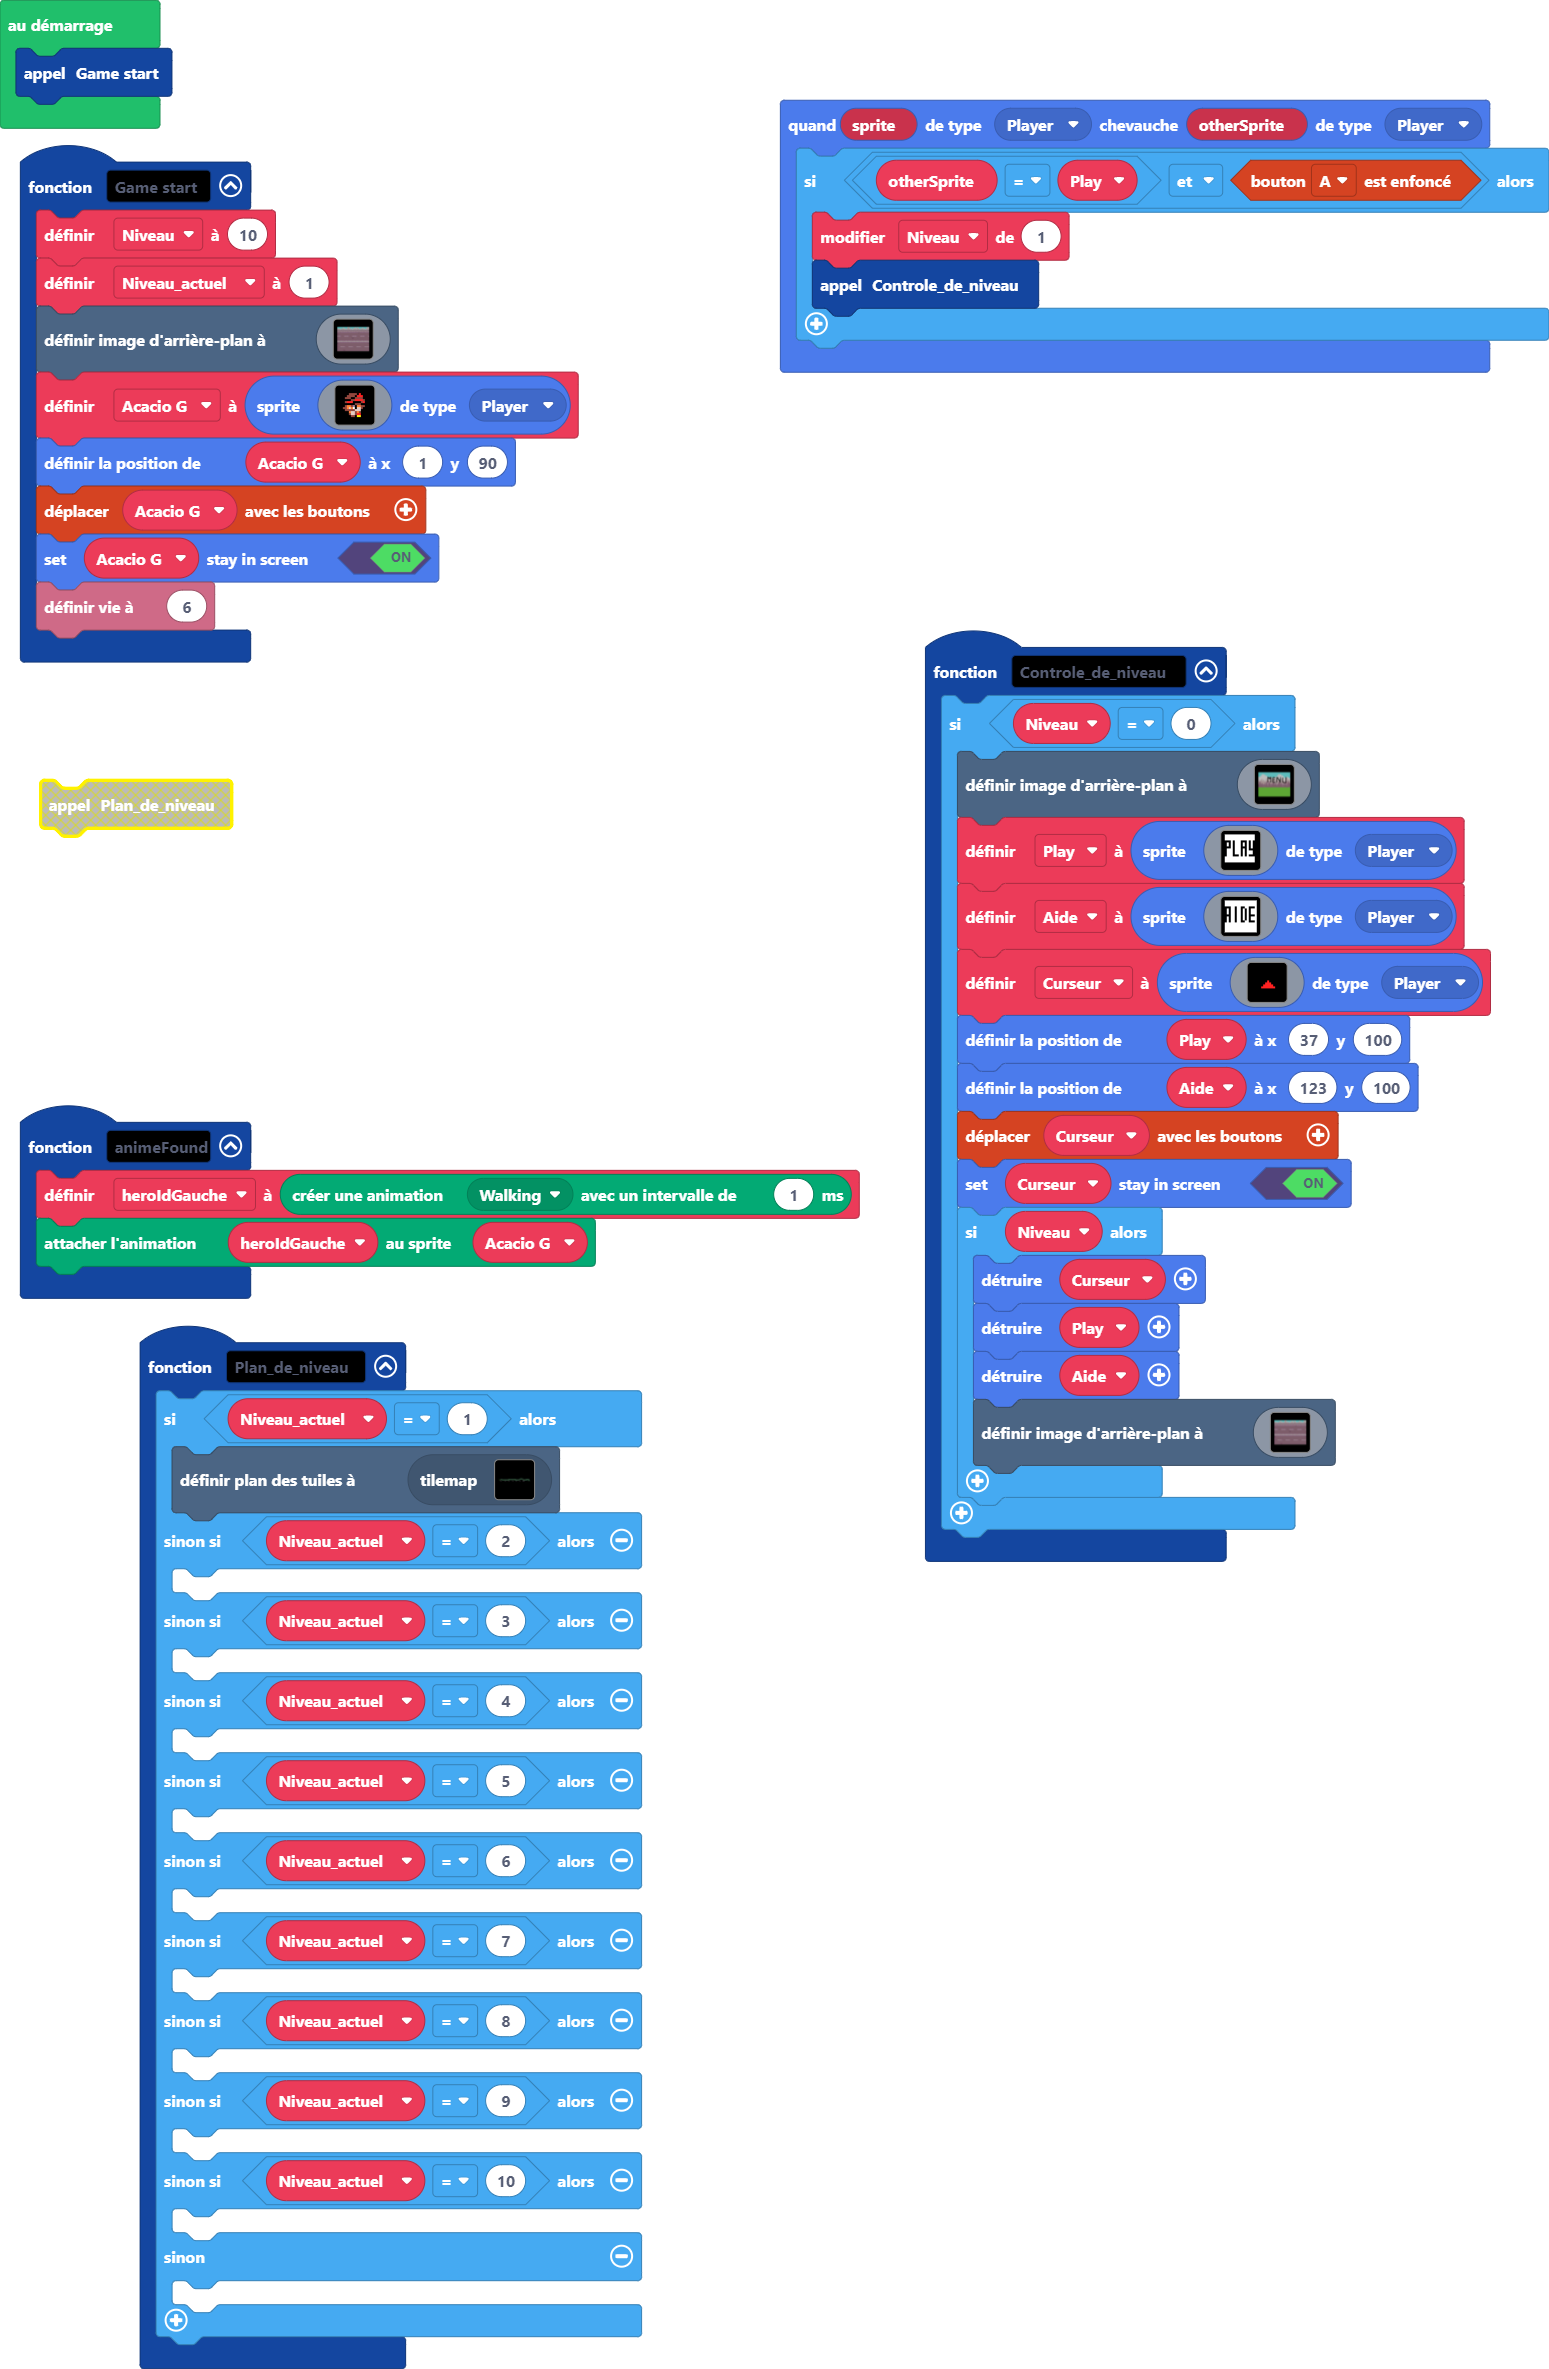
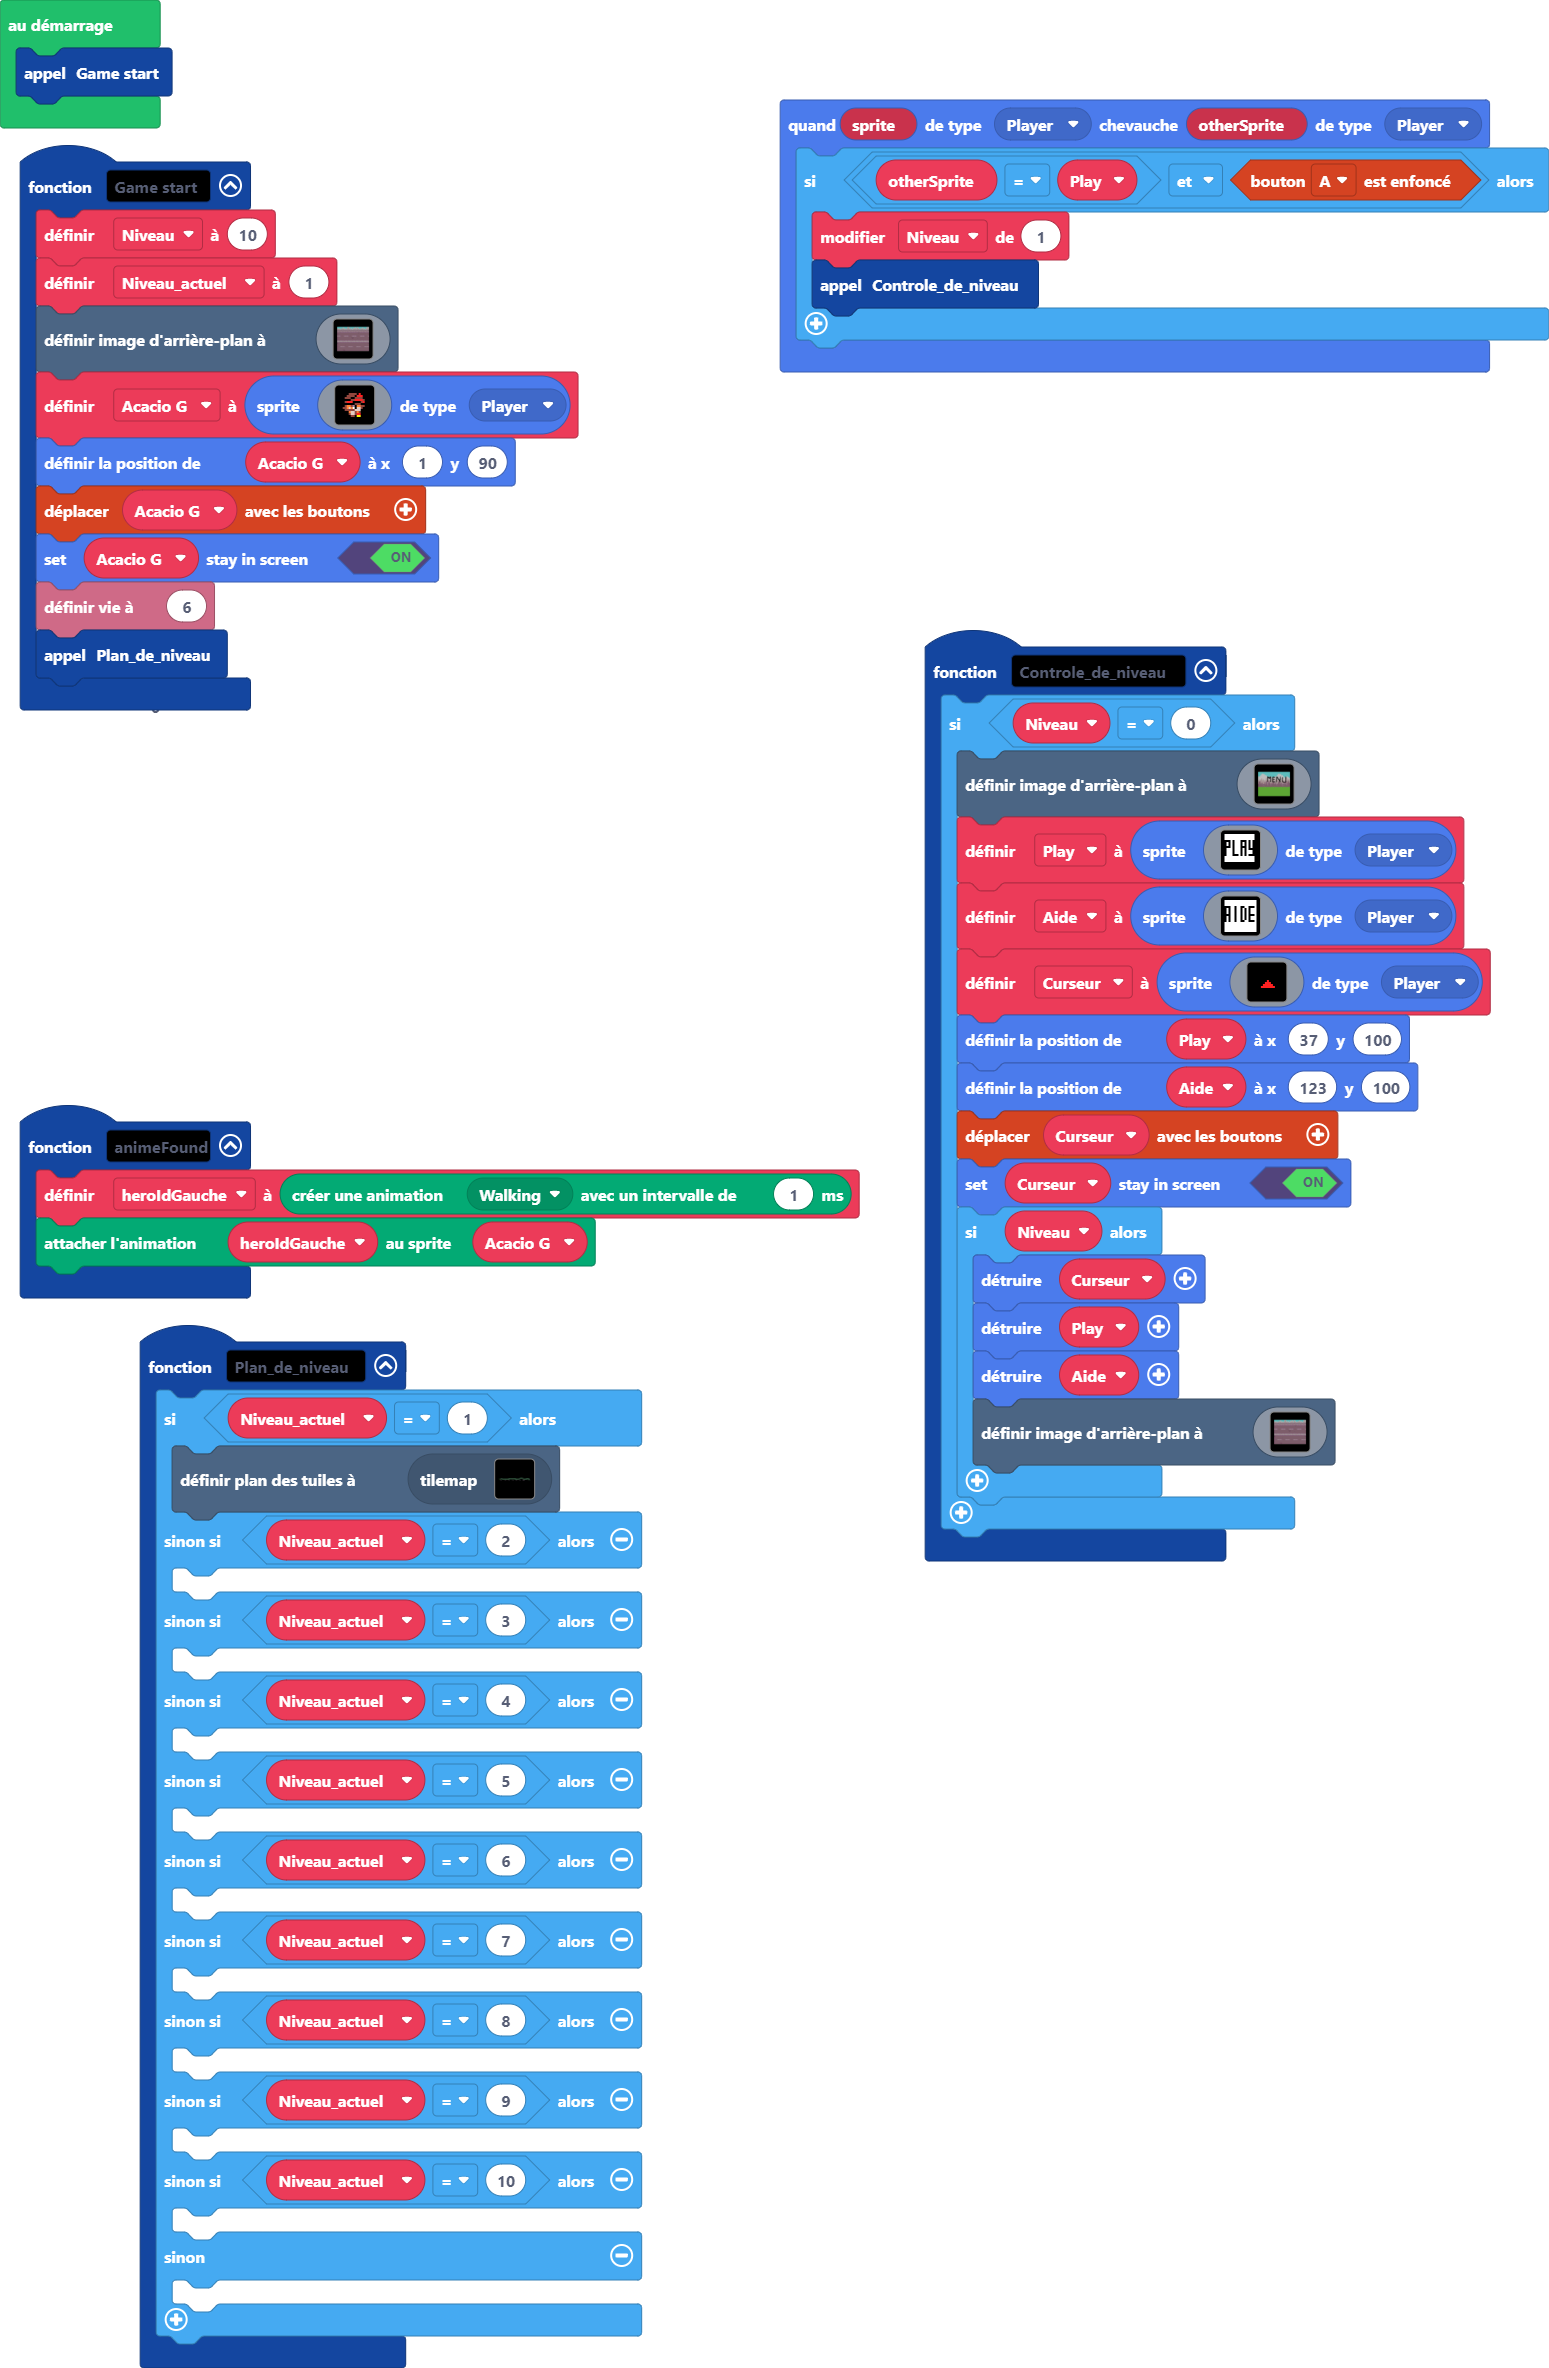
niveau

diff --git a/main.ts b/main.ts
@@ -467,6 +467,7 @@ function Game_start () {
     controller.moveSprite(Acacio_G)
     Acacio_G.setStayInScreen(true)
     info.setLife(6)
+    Plan_de_niveau()
 }
 function animeFound () {
     heroIdGauche = animation.createAnimation(ActionKind.Walking, 1)
